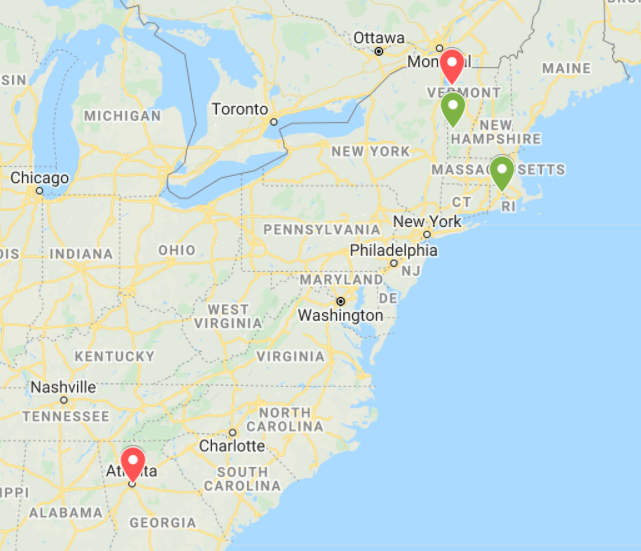
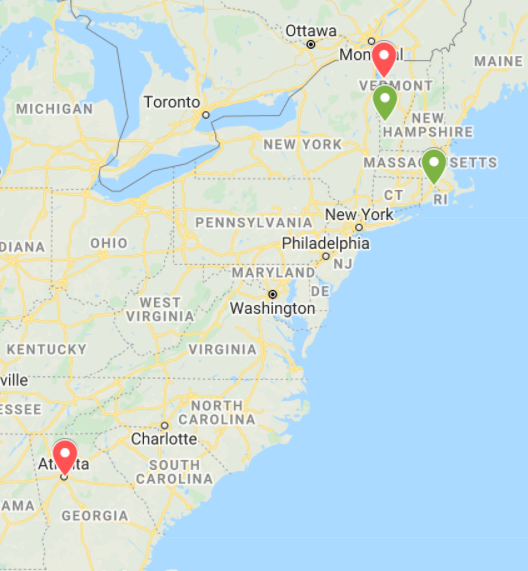
tweaks to about page and added transcript link for audio

diff --git a/src/components/site/About.jsx b/src/components/site/About.jsx
@@ -31,7 +31,7 @@ function About() {
             <div className="col-lg-7">
               <h1 class="font-weight-light">Mission</h1>
               <p>We believe in the power of escape games to engage challenge-craving minds and story-hungry souls (in other words: escape games == fun).
-              We also want this site to be accessible to ALL, which is why all the games are totally free. We are also working on adding transcripts for audio components, and exploring other ways to improve accessibility.
+              We want this site to be accessible to ALL, which is why all the games are totally free. We are also working on adding transcripts for audio components, and exploring other ways to improve accessibility.
               Please don't hesitate to reach out if you have questions or suggestions on that front.</p>
             </div>
             <div className="col-lg-5">
@@ -43,32 +43,34 @@ function About() {
             </div>
           </div>
         <div className="row align-items-center my-5">
-          <div className="col-lg-7">
+          <div className="col-lg-5">
             <img
                 className="img-fluid rounded mb-4 mb-lg-0"
                 src="https://raw.githubusercontent.com/jgraves123/ESCovid-2.0/master/images/map_about.PNG?raw=true"
                 alt="Map with pins in VT, RI, GA"
             />
           </div>
-          <div className="col-lg-5">
+          <div className="col-lg-7">
             <h1 className="font-weight-light">Our background</h1>
-            <p>We met at math camp (shocking!) and love to travel! We firmly believe that chocolate is the best food and our favorite analog games are Secret Hitler and Oh Hell.</p>
             <p>John is majoring in Computer Science and Applied Math at Brown University in Providence, RI (class of 2022). He dreams of designing an elaborate escape room for an anonymous villain and Megan being the President Elect. His actual dream is to be a statistical analyst for the Boston Red Sox.
               </p>
             <p>Megan is majoring in Neuroscience and Behavioral Biology at Emory University in Atlanta, GA (class of 2022). She dreams of eating muddy tofu (for the culture!) and being a real-life Among Us alien. Her actual dream is to drive a mobile therapy clinic / food truck cross-country.
               </p>
+            <p>We met at math camp (shocking, I know) and love to travel! Our favorite analog games are Secret Hitler, Mao, and Settlers of Catan.</p>
           </div>
         </div>
         <div className="row align-items-center my-5">
           <div className="col-lg-7">
             <h1 className="font-weight-light">Special thanks to...</h1>
-            <li>Quarantine Games - for linking our site and many other fun games.</li>
+            <li><a href={'https://docs.google.com/document/d/10iOD7Wy_YU4NmkPU7ZH7YTrq11qJAANjZZ0PAotKhR8/preview#'}>Quarantine Games</a> - for linking our site and many other fun games.</li>
             <li>Erik (Megan's brother) - for designing a ssstellar logo.</li>
             <li>Anna, Jared, Alex, and Daniel - for being amazing puzzle testers :)</li>
-            <li>Other escape games - EBONY, ?? - for inspiration.</li>
+            <li>Anna - for dressing up like princess Leia and blessing us with her screen acting skillz!</li>
+            <li>Other escape games - like <a href={'https://ebonyriddle.com/?fbclid=IwAR3rjfx67wYdNghDg4lynoLX24a3hgWWJ7tSDu-RXk4xq7DH5PlIocZtVlk'}>EBONY</a> - for inspiration.</li>
             <li>GIV Math participants - for your enthusiasm and persistence, and for giving us a reason to make this.</li>
+            <li>React.js and ReactBootstrap - for making this website easier to build.</li>
+            <li>Google Images - we will work on more specific citations in the future lol</li>
             <li>Everyone who has taken the time to fill out the feedback form - we appreciate it!</li>
-            <p></p>
           </div>
           <div className="col-lg-5">
             <img

diff --git a/src/components/game/hint.jsx b/src/components/game/hint.jsx
@@ -14,7 +14,9 @@ export const hints = {
                     "Match the color in the table with the correct number from the scale! Then use" +
                     " that number to find a letter! Ex. if the number is 1, use the first letter!"]
             },
-            1: {"A new home?": ["How can you translate the bold letters in \"Promising News\" to English letters with the cypher wheel?",
+            1: {
+                "Video": ["This is not a clue, just story context. TLDR: Climate change + pandemic = disaster on Earth. You are on a mission to find a new habitable planet."],
+                "A new home?": ["How can you translate the bold letters in \"Promising News\" to English letters with the cypher wheel?",
                     "Use the key from the table... shift the wheel 2 spots! The word has 6 letters G _ i _ _ _."],
                 "What game?": ["Take a look at the post with X's and O's... What game has X's and O's???" + "What if the # was not a hashtag, but a grid drawn in that shape?"],
                 "Read more...": ["How could you read more in the Burlington Free Press??? See _____, Page _____"],
@@ -43,6 +45,7 @@ export const hints = {
                     " that number to find a letter! Ex. if the number is 1, use the first letter!"]
             },
             1: {
+                "Video": ["This is not a clue, just story context. TLDR: Climate change + pandemic = disaster on Earth. You are on a mission to find a new habitable planet."],
                 "What game?": ["Take a look at the post with X's and O's... What game has X's" +
                 " and O's???"], "Riddle me this...": ["Check out the blank post... can you find" +
                 " a riddle? The answer is related to the theme. Instead of \"never eats\", we" +

diff --git a/src/components/escovid/tumblr2.js b/src/components/escovid/tumblr2.js
@@ -54,6 +54,7 @@ export default class Tumblr2 extends Component{
                 </form>
                 <div style={{padding: "20px"}}>
                 <ReactAudioPlayer src={audio} controls/>
+                <li>If you cannot hear the audio, click <a href={'https://docs.google.com/document/d/1XlJ2Vn84SUlez2LFZd2pQSAU7JMGhH_zTBjskACm2WQ/edit?usp=sharing'}>here</a> for the script (otherwise, no cheating!!)</li>
                 </div>
                 <Post title={""} caption={""}>
                     <img width="100%"src="https://raw.githubusercontent.com/jgraves123/ESCovid-2.0/master/images/stargridpuzzle.jpg?raw=true"/>
@@ -64,7 +65,7 @@ export default class Tumblr2 extends Component{
                 <Post title={""} caption={""}>
                     <img width="100%"src="https://raw.githubusercontent.com/jgraves123/ESCovid-2.0/master/images/constellations.jpg?raw=true"/>
                 </Post>
-            </div>
+                </div>
             </div>
             </body>
         )

diff --git a/src/components/escovid/tumblr1.js b/src/components/escovid/tumblr1.js
@@ -53,8 +53,8 @@ export default class Tumblr1 extends Component {
                     {/*</header>*/}
                     <div align={"center"}>
                         <div style={{margin: "30px"}}>
-                            <ReactPlayer playing url={video} controls={true} style={{padding: "10px", backgroundColor: "#aea9f5"}}/>
-                            <div style={{backgroundColor: "#aea9f5", width: "640px", padding: "10px"}}>
+                            <ReactPlayer playing url={video} controls={true} style={{padding: "10px", backgroundColor: "#fd0e35"}}/>
+                            <div style={{backgroundColor: "#fd0e35", width: "640px", padding: "10px"}}>
                                 <h5>Subj: URGENT UPDATE -- From: MSNCTRL</h5>
                             </div>
                         </div>
